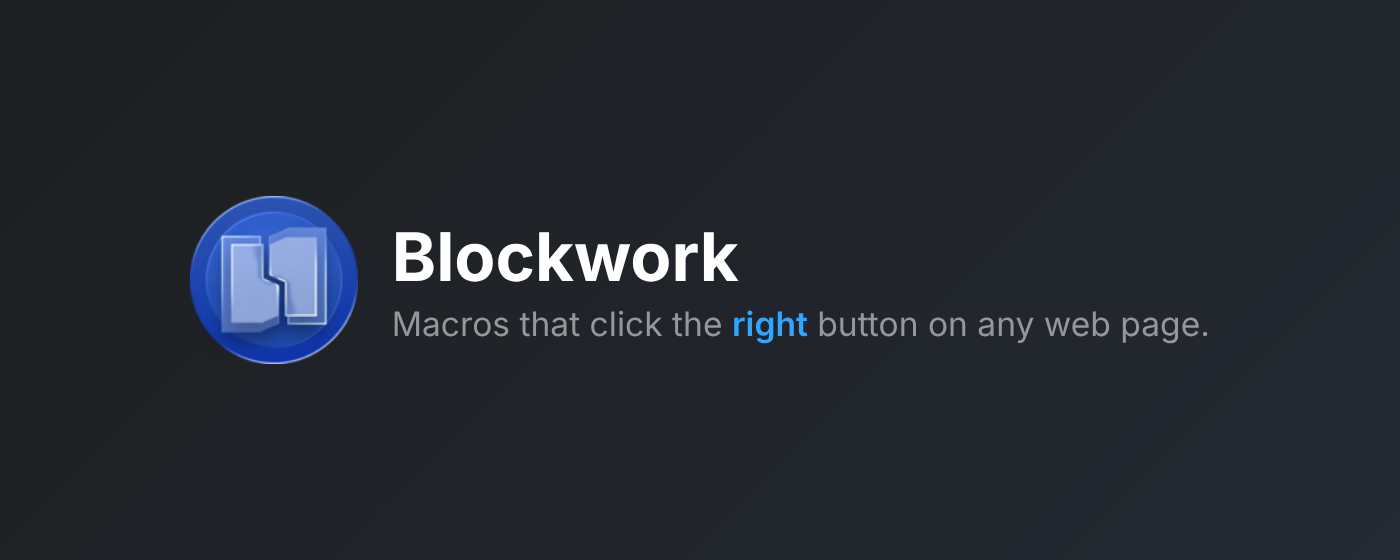
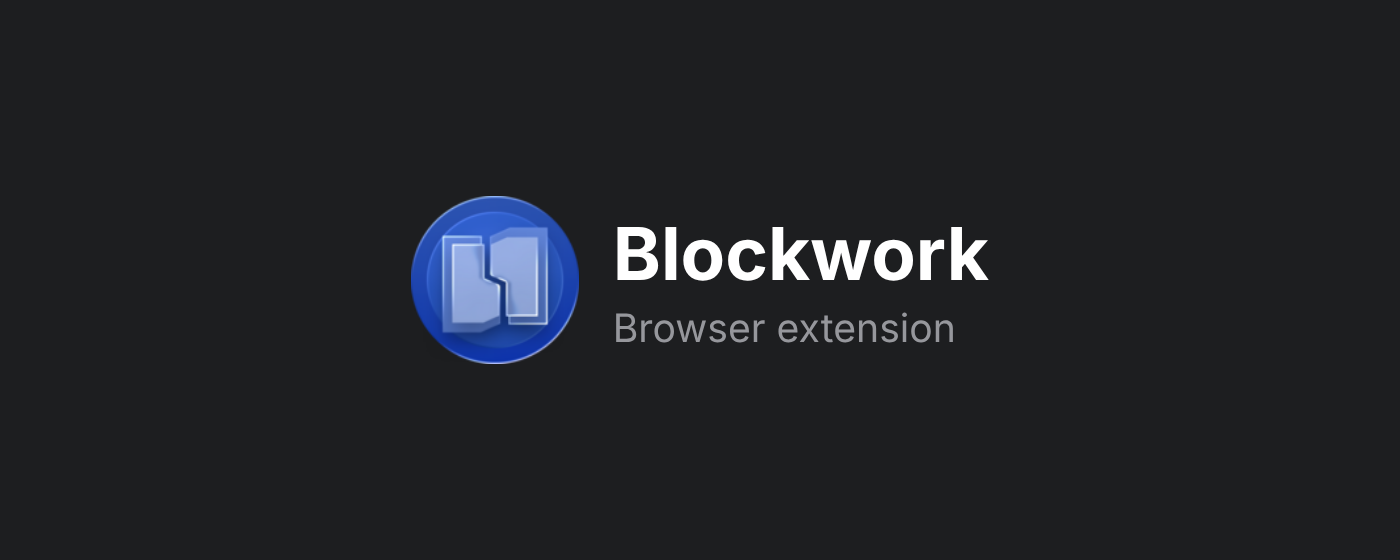
Plainer promo tile and marquee: flat background, name and Browser extension

Changed region(s): [[0.1229, 0.3339, 0.86, 0.6679]]

diff --git a/store/promo.html b/store/promo.html
@@ -4,19 +4,17 @@
 <meta charset="utf-8">
 <style>
   html, body { margin: 0; height: 100%; }
-  body { display: flex; align-items: center; justify-content: center; gap: 6vh; font-family: system-ui, sans-serif;
-    background: linear-gradient(135deg, #1d1e20, #242a33); color: #dedee0; }
+  body { display: flex; align-items: center; justify-content: center; gap: 6vh; font-family: system-ui, sans-serif; background: #1d1e20; }
   img { width: 30vh; height: 30vh; }
-  h1 { margin: 0; font-size: 12vh; font-weight: 700; color: #fff; }
-  p { margin: 1vh 0 0; font-size: 6vh; color: #96979c; max-width: 60vw; }
-  b { color: #32a5ff; font-weight: 600; }
+  h1 { margin: 0; font-size: 13vh; font-weight: 700; color: #ffffff; }
+  p { margin: 1vh 0 0; font-size: 7vh; color: #96979c; }
 </style>
 </head>
 <body>
[1 lines of base64/hex data omitted]
   <div>
     <h1>Blockwork</h1>
-    <p>Macros that click the <b>right</b> button on any web page.</p>
+    <p>Browser extension</p>
   </div>
 </body>
 </html>
